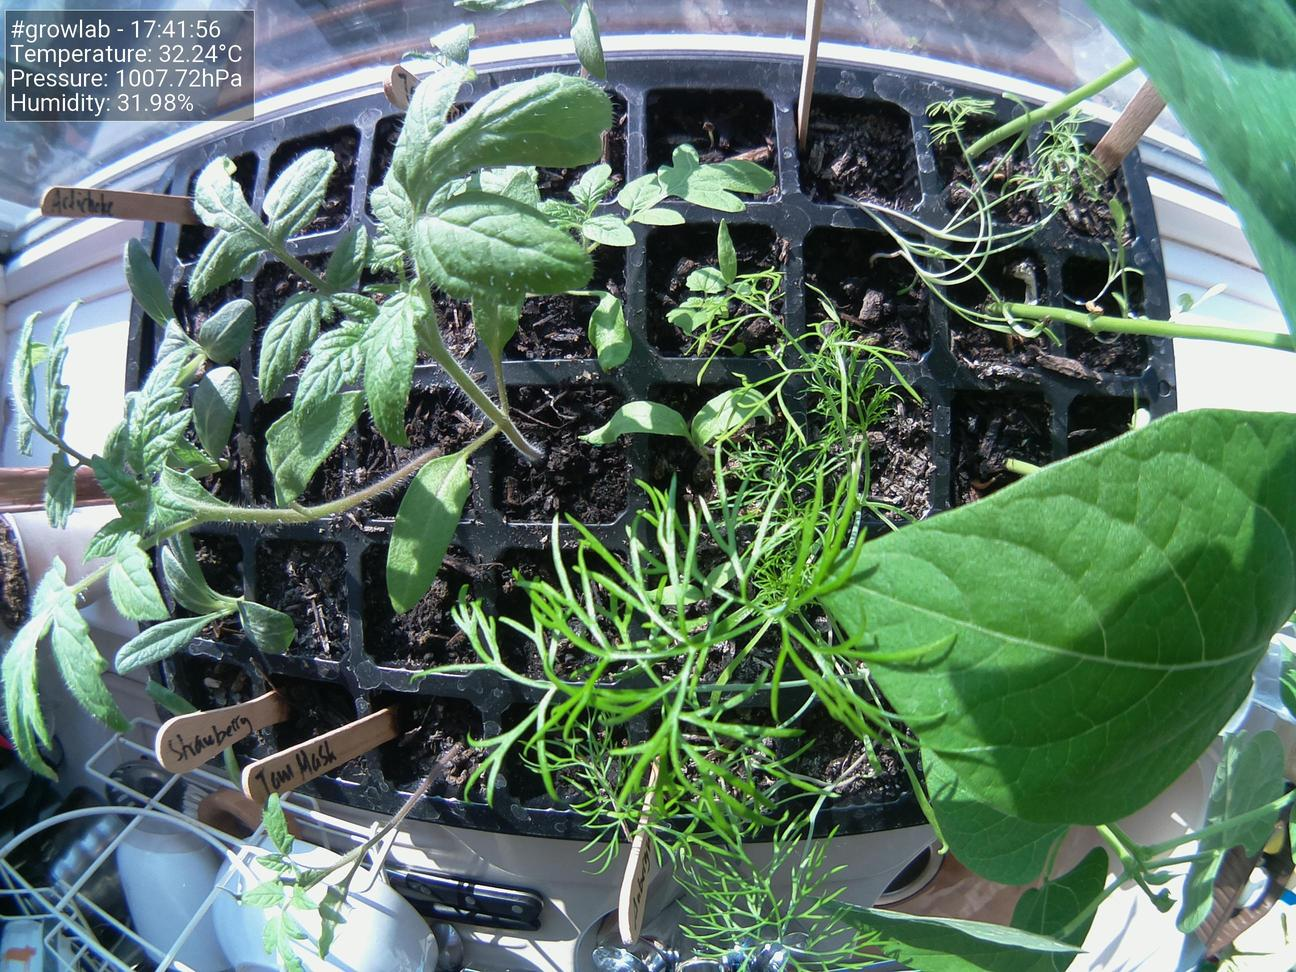
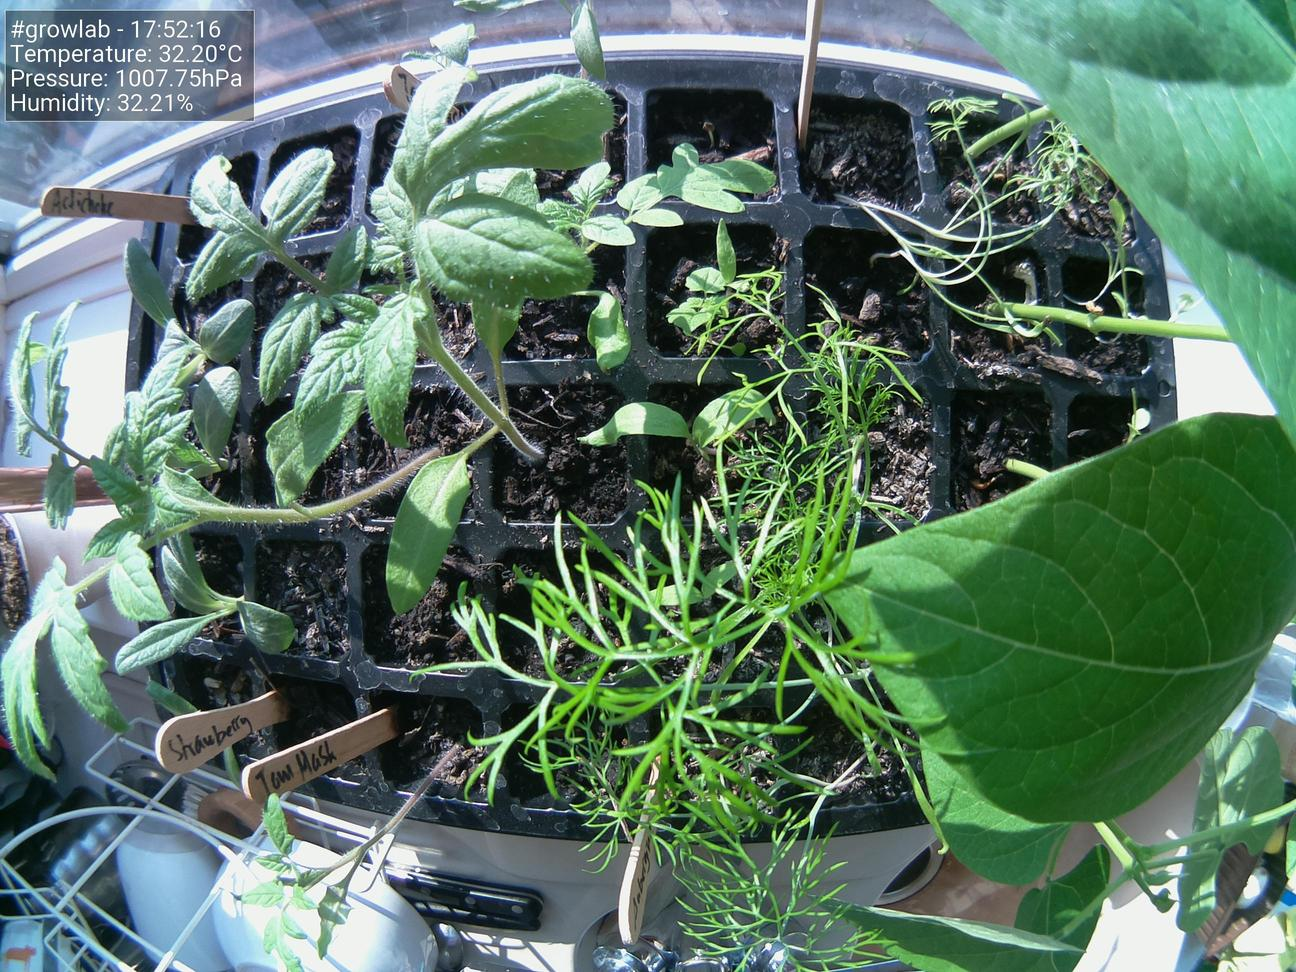
Update images at Wed 28 Apr 17:52:28 BST 2021

diff --git a/docs/index.html b/docs/index.html
@@ -38,19 +38,19 @@
                     <tbody>
                         <tr>
                             <td>Time</td>
-                            <td>17:41:56</td>
+                            <td>17:52:16</td>
                         </tr>
                         <tr>
                             <td>Temperature</td>
-                            <td>32.24°C</td>
+                            <td>32.20°C</td>
                         </tr>
                         <tr>
                             <td>Humidity</td>
-                            <td>31.98%</td>
+                            <td>32.21%</td>
                         </tr>
                         <tr>
                             <td>Pressure</td>
-                            <td>1007.72hPa</td>
+                            <td>1007.75hPa</td>
                         </tr>
                     </tbody>
                 </table>
@@ -58,7 +58,7 @@
 
                 <h5>Latest image</h5>
 		<div style="width: 85%;">
-	                <img class="figure-img img-fluid rounded" src="./preview.jpg?uid=1619628127.3557358">
+	                <img class="figure-img img-fluid rounded" src="./preview.jpg?uid=1619628747.6789277">
 		</div>
             </div>
         </div>
